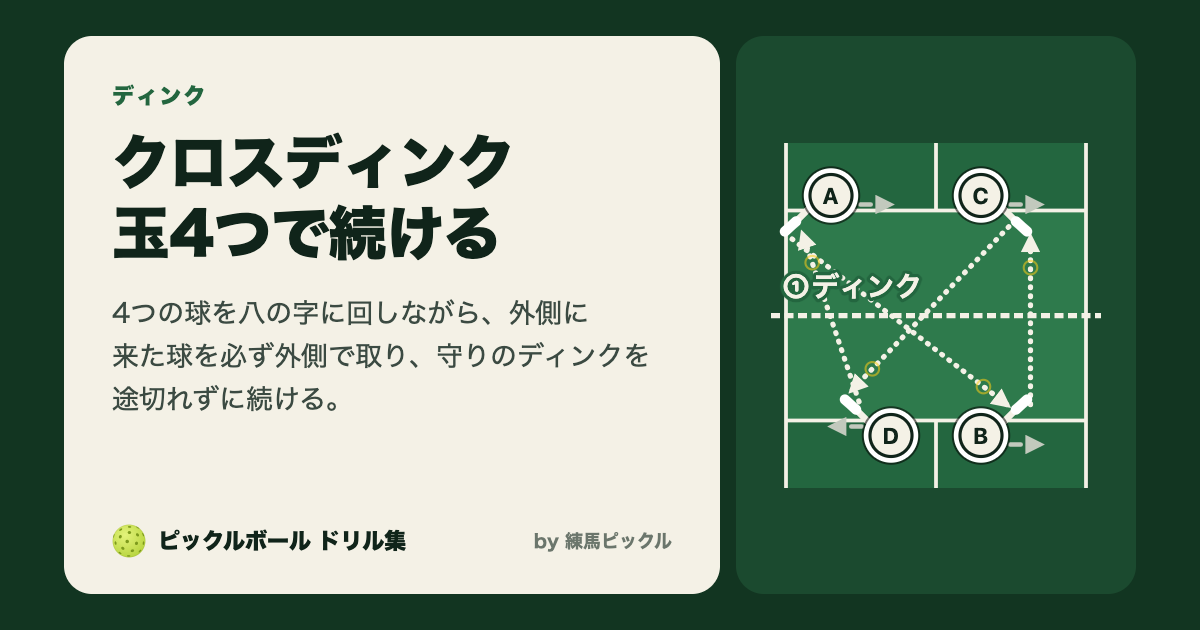
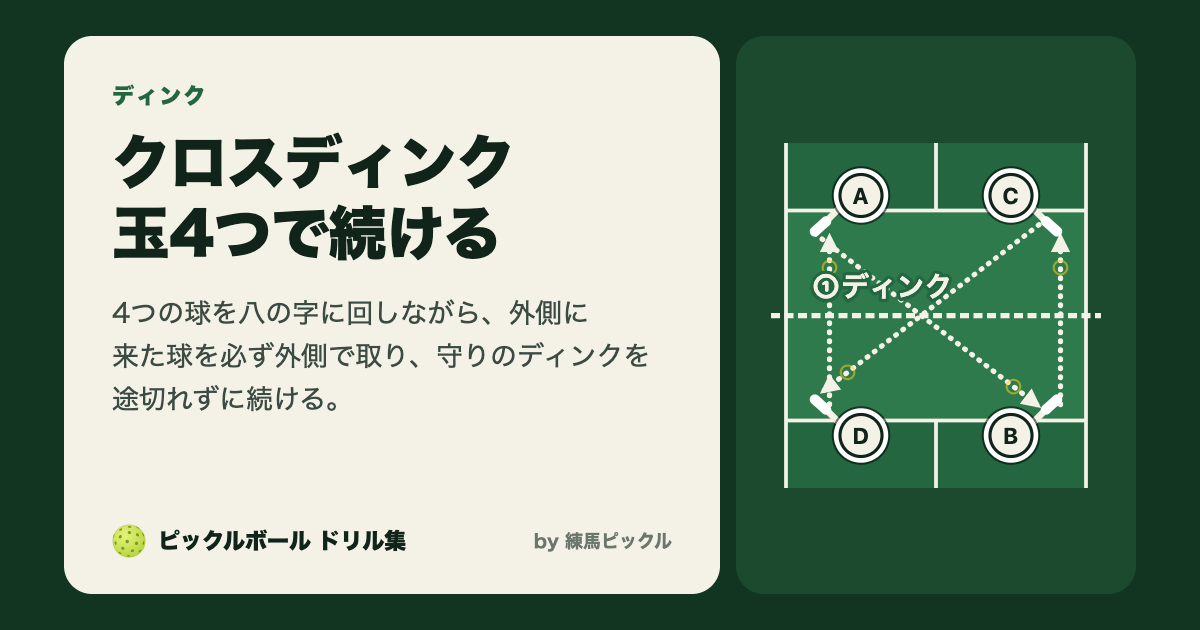
dnk005: players stay put in the middle of their half; no sidestep arrows
Claude-Session: https://claude.ai/code/session_013HpVCpnFevpdjrfSLpZjQ3

Changed region(s): [[0.6475, 0.2413, 0.8942, 0.754]]

diff --git a/src/content/docs/drills/dnk/dnk005.md b/src/content/docs/drills/dnk/dnk005.md
@@ -12,12 +12,11 @@ drill:
   scene: 4人ともキッチンラインに並び、ディンクの打ち合いになっている。相手が速めのディンクや足元への球で攻めてきて、こちらは押されている。
   purpose: 無理に攻め返さず、相手にノーバウンドで強く打たれない低さで、確実に相手のキッチンへ返し続ける。ミスをせずにしのぎ、互角のディンクの打ち合いに戻す。
   focus: 4つの球を八の字に回しながら、外側に来た球を必ず外側で取り、守りのディンクを途切れずに続ける。
-  setup: 4人で1面を使い、4人ともキッチンライン付近に立つ。1人1つずつ球を持つ。基本の位置は自分のレーンの真ん中より少し内側。
+  setup: 4人で1面を使い、4人ともキッチンライン付近に立つ。1人1つずつ球を持つ。それぞれ自分の半面の真ん中に立ち、立つ位置は動かさない。
   feed: 4人が同時に、八の字の次の人へディンクを出して始める。
   steps:
     - 奥の2人はクロス、手前の2人はストレートに打ち、球を八の字に回す（奥の左 → 手前の右 → 奥の右 → 手前の左 → 奥の左）
-    - 来た球は必ず外側（サイドライン側）へサイドステップして取る。続けようとして内側で取らない
-    - 打ったら基本の位置へ戻る
+    - 来た球は必ず体の外側（サイドライン側）で取る。続けようとして内側で取らない
     - 球が3つに減っても続ける。2つか1つになったら失敗にして、4つの球から出し直す
   points:
     - 体の横ではなく、体の前（足の前）で打つ
@@ -28,13 +27,13 @@ drill:
   diagram:
     rally: true
     # 八の字: 奥の左 A → 手前の右 B（クロス）→ 奥の右 C（ストレート）→ 手前の左 D（クロス）→ A（ストレート）。
-    # 4人とも、基本の位置（少し内側）から外側へサイドステップして取る（書き手の決まり: 必ず外側で取る）。
+    # 4人とも自分の半面の真ん中に立ち、動かない（書き手の指摘）。球は体の外側で取る（書き手の決まり: 必ず外側で取る）。
     # 全員右利きなので、外側がバック側になる奥の右 C と手前の左 D は、バックハンドで取る（paddle: bh）
     players:
-      - { id: A, at: far-leftInner-kitchen, sidestep: far-leftOuter-kitchen, role: practice }
-      - { id: B, at: near-rightInner-kitchen, sidestep: near-rightOuter-kitchen, role: practice }
-      - { id: C, at: far-rightInner-kitchen, sidestep: far-rightOuter-kitchen, role: practice, paddle: bh }
-      - { id: D, at: near-leftInner-kitchen, sidestep: near-leftOuter-kitchen, role: practice, paddle: bh }
+      - { id: A, at: far-left-kitchen, role: practice }
+      - { id: B, at: near-right-kitchen, role: practice }
+      - { id: C, at: far-right-kitchen, role: practice, paddle: bh }
+      - { id: D, at: near-left-kitchen, role: practice, paddle: bh }
     shots:
       - { from: A, to: B, type: dink, n: 1, bounce: front }
       - { from: B, to: C, type: dink, n: 1, bounce: front }
